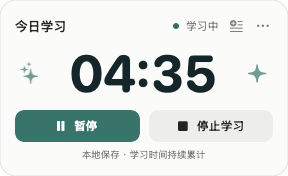
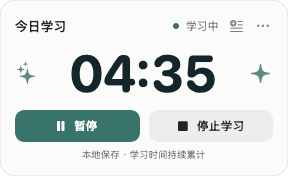
snapshot(P4-v2): import delivered stage retrospectively

Changed region(s): [[0.0625, 0.3409, 0.125, 0.483], [0.8438, 0.3693, 0.9375, 0.483]]

diff --git a/Sources/StudyTimerApp/AppDelegate.swift b/Sources/StudyTimerApp/AppDelegate.swift
@@ -30,7 +30,7 @@ final class AppDelegate: NSObject, NSApplicationDelegate {
                 fputs("--ui-check requires an isolated STUDY_TIMER_DATA_DIR\n", stderr)
                 exit(2)
             }
-            model.source = UICheckClock()
+            model.source = uiCheck ? UICheckClock() : PreviewTimeSource()
             model.acceptanceMode=acceptanceMode
         }
         model.load()
@@ -119,7 +119,7 @@ final class AppDelegate: NSObject, NSApplicationDelegate {
         if notePanel.isVisible { alignNote(remember:false) }
         if !uiCheck { preferences.set(NSStringFromPoint(panel.frame.origin),forKey:"timerOrigin") }
     }
-    func tick() { if acceptanceMode,let clock=model.source as? UICheckClock {clock.add(1)};model.tick();updateMenu();offerReminders() }
+    func tick() { model.tick();updateMenu();offerReminders() }
     func alignNote(adjust:Bool=true,remember:Bool=true) {
         if !adjust { notePanel.setFrameOrigin(NSPoint(x:panel.frame.minX,y:panel.frame.maxY+3));return }
         let placement=PanelLayout.above(timer:panel.frame,popupSize:NSSize(width:288,height:300),visible:screen(for:panel.frame).visibleFrame)
@@ -203,14 +203,14 @@ final class AppDelegate: NSObject, NSApplicationDelegate {
         for (title,value) in [("跟随系统外观","system"),("浅色外观","light"),("深色外观","dark")] { add(title,#selector(setAppearance(_:))).representedObject=value }
         if acceptanceMode {
             menu.addItem(.separator())
-            add("验收模式 · 测试数据独立保存",nil)
+            add("模拟验收 · 快进会增加测试时长",nil)
             for minutes in [1,30,60,180] {add("推进 \(minutes) 分钟",#selector(advanceAcceptance(_:))).representedObject=minutes}
-            add("推进到次日 00:20",#selector(advanceAcceptanceMidnight))
+            add("模拟持续学习至次日 00:20…",#selector(advanceAcceptanceMidnight))
         }
-        menu.addItem(.separator()); add("退出",#selector(quit),key:"q")
+        menu.addItem(.separator()); add("退出",#selector(quit))
         statusItem.menu=menu
         let main=NSMenu(); let appItem=NSMenuItem(); let appMenu=NSMenu()
-        let quitItem=NSMenuItem(title:"退出学习计时",action:#selector(quit),keyEquivalent:"q"); quitItem.target=self
+        let quitItem=NSMenuItem(title:"退出学习计时",action:#selector(quit),keyEquivalent:""); quitItem.target=self
         appMenu.addItem(quitItem); appItem.submenu=appMenu; main.addItem(appItem)
         let editItem=NSMenuItem(title:"编辑",action:nil,keyEquivalent:"")
         let edit=NSMenu(title:"编辑")
@@ -229,12 +229,21 @@ final class AppDelegate: NSObject, NSApplicationDelegate {
         menu.autoenablesItems=false
     }
     @objc func advanceAcceptance(_ item:NSMenuItem) {
-        guard acceptanceMode,let clock=model.source as? UICheckClock,let minutes=item.representedObject as? Int else{return}
+        guard acceptanceMode,let clock=model.source as? PreviewTimeSource,let minutes=item.representedObject as? Int else{return}
         clock.add(Double(minutes)*60);tick()
     }
     @objc func advanceAcceptanceMidnight() {
-        guard acceptanceMode,let clock=model.source as? UICheckClock else{return}
-        clock.now=StudyDate.nextMidnight(clock.now).addingTimeInterval(1200);tick()
+        guard acceptanceMode,let clock=model.source as? PreviewTimeSource else{return}
+        let target = StudyDate.nextMidnight(clock.now).addingTimeInterval(1200)
+        let alert = NSAlert()
+        alert.messageText = "模拟跨日：快进时间将计入测试记录"
+        let elapsed = StudyDate.duration(target.timeIntervalSince(clock.now))
+        alert.informativeText = "当前模拟时间：\(StudyDate.day(clock.now)) \(StudyDate.clock(clock.now))\n目标：\(StudyDate.day(target)) 00:20\n" + (model.phase == .running ? "正在计时，将新增约 \(elapsed) 的模拟学习时长，并按午夜拆分。" : "当前未运行，不增加学习时长。") + "\n仅影响独立验收数据，已有学习段保留。"
+        alert.addButton(withTitle: "取消")
+        alert.addButton(withTitle: "确认模拟快进")
+        NSApp.activate(ignoringOtherApps: true)
+        guard alert.runModal() == .alertSecondButtonReturn else { return }
+        clock.add(max(0, target.timeIntervalSince(clock.now))); tick()
     }
     @objc func showSaveStatus() {
         if model.errorText != nil { showError(); return }

diff --git a/Sources/StudyTimerApp/UICheck.swift b/Sources/StudyTimerApp/UICheck.swift
@@ -21,6 +21,13 @@ extension AppDelegate {
         do {
             try FileManager.default.createDirectory(at:output,withIntermediateDirectories:true)
             check("initial_stopped",model.ready && model.phase == .stopped)
+            var exits = menu.items.filter { $0.action == #selector(quit) }
+            for rootItem in NSApp.mainMenu?.items ?? [] {
+                for item in rootItem.submenu?.items ?? [] {
+                    if item.action == #selector(quit) { exits.append(item) }
+                }
+            }
+            check("all_exit_menus_have_no_shortcut",exits.count == 2 && exits.allSatisfy { $0.keyEquivalent.isEmpty })
             let visible=screen(for:panel.frame).visibleFrame
             setFrame(NSRect(x:panel.frame.minX,y:visible.maxY-panel.frame.height-8,width:288,height:176))
             let original=panel.frame
@@ -70,10 +77,31 @@ extension AppDelegate {
             let store=try SQLiteLedgerStore(directory:output.appendingPathComponent("snapshot-check"),now:clock.now)
             try store.save(snapshot);let loaded=try store.load()
             check("SQLite_full_record_roundtrip",loaded==snapshot)
-            let report:[String:Any]=["stage":"P4","kind":"AppKit integration with isolated clock and SQLite","checks":checks,
-                "allPassed":checks.allSatisfy{$0["passed"] as? Bool==true}]
-            try JSONSerialization.data(withJSONObject:report,options:[.prettyPrinted,.sortedKeys]).write(to:output.appendingPathComponent("ui-checks.json"))
-            print("P4 UI checks: \(checks.filter{$0["passed"] as? Bool==true}.count)/\(checks.count)")
+            // Return to the main run loop so scheduled animation callbacks can execute.
+            // A nested run loop inside this main-queue callback cannot service main-queue blocks.
+            let effect = StudyModel()
+            effect.startCelebration()
+            var levels: [Double] = []
+            for point in [0.65,1.05,1.45,1.85,2.25,2.65] {
+                DispatchQueue.main.asyncAfter(deadline: .now() + point) { levels.append(effect.celebrationOpacity) }
+            }
+            DispatchQueue.main.asyncAfter(deadline: .now() + 3) {
+                check("celebration_three_dim_bright_cycles", levels == [0.15,1,0.15,1,0.15,1])
+            }
+            DispatchQueue.main.asyncAfter(deadline: .now() + 29) {
+                check("celebration_held_before_30_seconds", effect.celebration && effect.celebrationOpacity == 1)
+            }
+            DispatchQueue.main.asyncAfter(deadline: .now() + 30.4) {
+                check("celebration_ends_at_30_seconds", !effect.celebration)
+                let report:[String:Any]=["stage":"P4 v2","kind":"AppKit integration with isolated clock and SQLite; effect observed over 30 real seconds","checks":checks,
+                    "allPassed":checks.allSatisfy{$0["passed"] as? Bool==true}]
+                do {
+                    try JSONSerialization.data(withJSONObject:report,options:[.prettyPrinted,.sortedKeys]).write(to:output.appendingPathComponent("ui-checks.json"))
+                    print("P4 UI checks: \(checks.filter{$0["passed"] as? Bool==true}.count)/\(checks.count)")
+                } catch { fputs("P4 UI report failed: \(error)\n", stderr) }
+                NSApp.terminate(nil)
+            }
+            return
         } catch {fputs("P4 UI check failed: \(error)\n",stderr)}
         NSApp.terminate(nil)
     }

diff --git a/Sources/StudyTimerApp/StudyModel.swift b/Sources/StudyTimerApp/StudyModel.swift
@@ -11,6 +11,25 @@ final class StudyModel: ObservableObject {
     @Published var cardIndex = 0
     @Published var cardTitle = ""
     @Published var celebration = false
+    @Published var celebrationOpacity = 1.0
+    private var celebrationGeneration = UUID()
+    func startCelebration() {
+        let generation = UUID()
+        celebrationGeneration = generation
+        celebration = true
+        celebrationOpacity = 1
+        // Three soft dim/bright cycles, followed by a steady hold until 30 seconds.
+        for step in 1...6 {
+            DispatchQueue.main.asyncAfter(deadline: .now() + Double(step) * 0.4) { [weak self] in
+                guard let self = self, self.celebrationGeneration == generation else { return }
+                withAnimation(.easeInOut(duration: 0.2)) { self.celebrationOpacity = step.isMultiple(of: 2) ? 1 : 0.15 }
+            }
+        }
+        DispatchQueue.main.asyncAfter(deadline: .now() + 30) { [weak self] in
+            guard let self = self, self.celebrationGeneration == generation else { return }
+            self.celebration = false
+        }
+    }
     @Published var isEditingHistory = false
     private var dirty: Set<UUID> = []
     private var draftWork: DispatchWorkItem?
@@ -26,7 +45,7 @@ final class StudyModel: ObservableObject {
     }
     var displayTime: String { StudyDate.timer(ledger.total(on: ledger.day)) }
     var footer: String {
-        if acceptanceMode && errorText == nil { return "验收模式 · 独立数据，可快进时间" }
+        if acceptanceMode && errorText == nil { return "模拟时间 " + StudyDate.clock(source.now) + " · 快进计入测试时长" }
         if errorText != nil { return "保存/读取失败 · 点右上角菜单查看" }
         return phase == .running ? "本地保存 · 学习时间持续累计" : "本地保存 · " + (phase == .paused ? "暂停期间不计时" : "点击开始学习")
     }
@@ -36,7 +55,7 @@ final class StudyModel: ObservableObject {
             let directory = try SQLiteLedgerStore.defaultDirectory()
             dataDirectory = directory
             let store = try SQLiteLedgerStore(directory: directory, now: source.now)
-            if acceptanceMode,let clock=source as? UICheckClock {clock.now=max(clock.now,try store.load().checkpointAt)}
+            if acceptanceMode, let clock = source as? PreviewTimeSource { clock.restore(at: try store.load().checkpointAt) }
             controller = try StudyController(source: source, store: store)
             ready = true; errorText = nil; refresh()
         } catch { ready = false; errorText = error.localizedDescription }
@@ -87,8 +106,7 @@ final class StudyModel: ObservableObject {
             try controller.markPresented(Set(pending.map(\.id)));refresh()
             cardEntryIDs=Array(pending.compactMap(\.entryID).reduce(into:[UUID]()) { result,id in if !result.contains(id){result.append(id)} })
             cardIndex=0;cardTitle=pending.count==1 ? "又完成一小时" : "已完成 \(pending.count) 个整小时"
-            withAnimation(.easeInOut(duration:0.35)){celebration=true}
-            DispatchQueue.main.asyncAfter(deadline:.now()+2) { [weak self] in withAnimation(.easeOut(duration:0.4)){self?.celebration=false} }
+            startCelebration()
             return currentEntry != nil
         } catch { errorText=error.localizedDescription;return false }
     }

diff --git a/Tests/StudyRecordChecks/main.swift b/Tests/StudyRecordChecks/main.swift
@@ -298,6 +298,42 @@ test("quit_unselected_short_tail_saved_separately") {
  let(t,_,c)=try fixture();try c.perform(.start);t.add(300);try c.perform(.stop);try c.perform(.quit)
  try expect(c.ledger.entries.count==1 && c.ledger.entries[0].seconds==300 && !c.ledger.entries[0].pendingTail)
 }
+test("real_clock_session_uses_actual_start_time") {
+ let before=Date();let clock=ContinuousTimeSource();let store=MemoryStore(clock.now)
+ let controller=try StudyController(source:clock,store:store);try controller.perform(.start)
+ let start=controller.ledger.sessions[0].startedAt
+ try expect(start >= before && start <= Date() && controller.ledger.sessions[0].day==StudyDate.day(start))
+}
+test("preview_starts_at_current_time_not_nine") {
+ let base=FakeClock("2026-09-18T20:37:42+08:00");let clock=PreviewTimeSource(base:base)
+ try expect(clock.now==base.now && StudyDate.clock(clock.now)=="20:37")
+ base.add(7200);try expect(clock.now==base.now)
+ clock.add(1800);try expect(clock.now.timeIntervalSince(base.now)==1800)
+}
+test("preview_restore_does_not_rewind_or_count_closed_time") {
+ let base=FakeClock("2026-09-18T20:37:42+08:00");let clock=PreviewTimeSource(base:base)
+ let stored=base.now.addingTimeInterval(86400);clock.restore(at:stored)
+ try expect(clock.now==stored);base.add(60);try expect(clock.now==stored.addingTimeInterval(60))
+ clock.restore(at:base.now.addingTimeInterval(-3600));try expect(clock.now==base.now)
+}
+test("midnight_preserves_earlier_total_notes_and_start_time") {
+ let(t,s,c)=try fixture("2026-09-18T18:17:00+08:00")
+ try c.perform(.start);t.add(1800);try c.perform(.stop)
+ let id=c.ledger.entries[0].id;try c.editNotes([id:"此前的真实学习记录"])
+ let earlier=c.ledger.sessions[0]
+ t.now=ISO8601DateFormatter().date(from:"2026-09-18T23:40:00+08:00")!
+ try c.perform(.start);t.add(2400);c.tick()
+ try expect(c.ledger.sessions[0]==earlier && c.ledger.entries.first{$0.id==id}?.note=="此前的真实学习记录")
+ try expect(near(c.ledger.total(on:"2026-09-18"),3000) && near(c.ledger.total(on:"2026-09-19"),1200))
+ let restored=try StudyController(source:t,store:s)
+ try expect(near(restored.ledger.total(on:"2026-09-18"),3000) && restored.ledger.sessions[0]==earlier)
+}
+test("midnight_paused_preserves_all_prior_totals") {
+ let(t,_,c)=try fixture("2026-09-18T20:17:00+08:00");try c.perform(.start)
+ t.add(600);try c.perform(.pause);let total=c.ledger.total(on:"2026-09-18")
+ t.now=ISO8601DateFormatter().date(from:"2026-09-19T00:20:00+08:00")!;c.tick()
+ try expect(c.ledger.total(on:"2026-09-18")==total && c.ledger.total(on:"2026-09-19")==0 && c.ledger.phase == .paused)
+}
 let passed=checks.filter { $0["passed"] as? Bool == true }.count
 let report:[String:Any] = ["stage":"P4", "kind":"isolated clocks and SQLite", "checks":checks, "allPassed":passed==checks.count,
  "notCovered":["Actual system sleep", "Actual overnight midnight", "UI window behavior"]]

diff --git a/Sources/StudyCore/TimeSource.swift b/Sources/StudyCore/TimeSource.swift
@@ -42,3 +42,14 @@ public enum StudyDate {
         return minutes % 60 == 0 ? "\(minutes / 60)小时" : "\(minutes / 60)小时\(minutes % 60)分钟"
     }
 }
+
+/// User-facing isolated preview starts at the current real time, never a fixed fixture date.
+/// The continuous source keeps elapsed time independent of UI refresh frequency and sleep.
+public final class PreviewTimeSource: TimeSource {
+    private let base: TimeSource
+    private var offset: TimeInterval = 0
+    public init(base: TimeSource = ContinuousTimeSource()) { self.base = base }
+    public var now: Date { base.now.addingTimeInterval(offset) }
+    public func add(_ seconds: TimeInterval) { offset += max(0, seconds) }
+    public func restore(at checkpoint: Date) { offset = max(0, checkpoint.timeIntervalSince(base.now)) }
+}

diff --git a/Sources/StudyTimerApp/TimerView.swift b/Sources/StudyTimerApp/TimerView.swift
@@ -53,7 +53,7 @@ struct TimerView: View {
                 if model.celebration {
                     HStack { Image(systemName:"sparkles"); Spacer(); Image(systemName:"sparkle") }
                         .font(.system(size:20)).foregroundColor(PrototypeTheme.accent.opacity(0.8))
-                        .allowsHitTesting(false).transition(.opacity.combined(with:.scale(scale:0.8)))
+                        .opacity(model.celebrationOpacity).allowsHitTesting(false)
                 }
             }
             HStack(spacing: 9) {

diff --git a/docs/p4-testing.md b/docs/p4-testing.md
@@ -1,4 +1,4 @@
-# P4 v1：整小时、备注与尾段验收
+# P4 v2：整小时、备注与尾段验收
 
 当前阶段：P4 开发交付，等待用户验收；P5 未开始。
 
@@ -10,18 +10,18 @@
 ## 打开与两种模式
 先退出旧版本及正在运行的 P4，避免同时显示多个悬浮窗。
 
-**日常使用：**双击 `StudyTimer.app`，采用真实时间和正式 P4 数据库，不自动开始计时。右上角记录图标查看历史，“…”和菜单栏控制计时。
+**日常使用：**双击 `StudyTimer.app`，采用真实时间和正式 P4 数据库，不自动开始计时。退出请用鼠标点击“…”或菜单栏中的“退出”，没有退出快捷键。右上角记录图标查看历史，“…”和菜单栏控制计时。
 
-**快速验收：**双击同目录的 `开始独立验收.command`。它会通过终端启动同一个应用，使用全新的测试目录；主窗明确显示“验收模式 · 独立数据，可快进时间”。菜单额外提供推进 1/30/60/180 分钟和推进到次日 00:20。该模式不改系统时间，也不写正式库。
+**快速验收：**双击同目录的 `开始独立验收.command`。它会通过终端启动同一个应用，使用全新的测试目录；初始模拟时间为此刻真实时间，主窗显示“模拟时间 HH:MM · 快进计入测试时长”。菜单额外提供推进 1/30/60/180 分钟和模拟持续学习至次日 00:20；跨日操作先显示新增时长，确认后才推进。该模式不改系统时间，也不写正式库。
 
-退出后若要验证持久保存，双击 `继续上次验收.command`。仍使用上次测试目录和保存点日期，不会回拨测试时间。再次运行“开始独立验收”会建立新目录；旧测试目录仍保留，不自动删除。
+退出后若要验证持久保存，双击 `继续上次验收.command`。仍使用上次测试目录及当前时间/保存点中较晚的时刻，不会回拨测试时间。再次运行“开始独立验收”会建立新目录；旧测试目录仍保留，不自动删除。
 
 源码目录也可用 `bash scripts/open-p4-acceptance.sh` 启动一次新验收，终端会打印独立数据路径。上述 .command 入口位于交付目录/应用包中。
 
 ## 建议测试顺序
 | 编号 | 操作 | 预期 |
 |---|---|---|
-| P4-01 | 独立验收中开始，菜单推进 60 分钟 | 无声星光，备注卡片在计时窗上方；计时继续 |
+| P4-01 | 独立验收中开始，菜单推进 60 分钟 | 星光开始时闪烁 3 次，总计停留 30 秒；备注卡片在计时窗上方；计时继续 |
 | P4-02 | 将主窗拖到屏幕顶端，再触发卡片，收起 | 主窗临时下移，卡片仍在上方；收起恢复原位 |
 | P4-03 | 卡片打开期间主动拖动主窗，再收起 | 保留新位置；只点击不拖动则仍可恢复原位 |
 | P4-04 | 卡片填写中文、选择候选词、换行，等待约半秒 | 文本可编辑并自动保存；计时不中断，不抢其他应用的输入焦点 |
@@ -47,6 +47,15 @@
 卡片在输入时，新提醒等待；历史编辑窗口打开时也等待。正常退出先保存草稿，再处理所有尚未选择的尾段。异常关闭只恢复已保存内容，尚未完成的自动保存可能丢失，已保存记录不会被关闭间隔补算。
 
 ## 验证边界与反馈
-46 项核心/SQLite 检查、24 项 AppKit 集成检查及实际原生界面编辑验证见 p4-self-test.md。新一轮真实锁屏/睡眠、中文输入法完整候选交互、不同桌面与全屏体验建议在本版再回归一次。自然跨午夜仍未实测；快进跨日是隔离模拟。
+v2 的针对性回归与验证边界见 p4-v2-self-test.md。新一轮真实锁屏/睡眠、中文输入法完整候选交互、不同桌面与全屏体验建议在本版再回归一次。自然跨午夜仍未实测；快进跨日是隔离模拟。
 
 请反馈测试编号、操作和实际表现。P4 通过并明确允许继续后，才进入 P5。
+
+## 本次反馈的重点复测
+1. 日常计时直接双击 v2 `StudyTimer.app`。点击开始，记录页应显示本次实际开始钟点，无固定 09:00。
+2. 独立验收从当前真实时刻出发；点击推进会增加模拟学习时长。运行中模拟跨日会把直到目标的时间全部算入，这是持续学习模拟。若不希望增加时长，先暂停再跨日。
+3. 先停止保存一段，再开始第二段并模拟跨日，前一段的开始时间、时长、备注应保持不变，日总计只增加第二段午夜前的部分。
+4. 特效出现后观察最初 3 次柔和明暗变化，随后保持，30 秒消失；卡片不会因此关闭。
+5. 两处退出菜单均无快捷键标记，鼠标点击退出后悬浮窗和菜单栏图标消失。悬浮窗不抢焦点，其他应用在前台时键盘仍归该应用，不使用 Command-Q 退出悬浮窗。
+
+v1 的固定 09:00 记录属于旧独立验收库。v2 保留旧文件，不将这些模拟数据转换成真实学习记录，也不据模拟数据重写正式库。

diff --git a/docs/p4-v2-self-test.md b/docs/p4-v2-self-test.md
@@ -1,0 +1,31 @@
+# P4 v2 修复与自测
+
+2026-09-18。范围仅为 P4 用户反馈修复，等待用户复测；P5 未开始。
+
+## 修复与排查结论
+1. 星光共停留 30 秒，出现后最初 2.4 秒内柔和闪烁 3 次，之后常亮；卡片仍由用户保存或收起，计时不中断。
+2. 两处退出菜单均移除快捷键。请点击菜单退出；悬浮窗不抢键盘焦点，其他应用在前台时 Command-Q 仍属于其他应用。
+3. 只读核对确认固定 09:00 和跨日大额累计来自独立验收模式；未发现模拟库覆盖正式库。公开版本不包含个人真实记录。
+4. 交互验收现使用独立 PreviewTimeSource，从当前真实时间开始；连续经过时间独立于界面刷新，快进增加显式偏移。固定 9 点仅保留在自动化用例中。窗口明确显示模拟时刻和快进会计入测试时长，跨日操作显示目标与新增时长并要求点击确认。
+
+旧模拟记录不会被猜测或转换为真实学习时间，v2 日常使用沿用已有正式 P4 库。新建独立验收使用新的测试目录。
+
+## 核心与存储
+`bash scripts/test-p4.sh`：51/51 通过。保留原 46 项，增加：真实开始时刻；验收时钟非固定 9 点且覆盖长间隔；恢复不回拨；已有学习记录与备注在跨日、保存和恢复后不变；暂停跨日不增加累计。
+
+重点用例：先保存 18:17 开始的 30 分钟，再从 23:40 连续学到次日 00:20。昨日合计 50 分钟，今日 20 分钟；第一段的开始时间、时长和备注完全保留。
+
+## 窗口与特效
+`bash scripts/test-ui-p4.sh`：在原 24 项上增加两处退出菜单无快捷键、3 次明暗周期、29 秒仍显示、30 秒结束，共 28 项，最终 28/28 通过。特效检查通过真实主运行循环异步观测，计时核心仍使用隔离模拟时钟。
+
+首次特效检查的嵌套等待阻塞了主队列回调，造成两项失败；已修正检查方式为异步采样，避免将测试阻塞误判为应用动画故障。最终原始结果见 `evidence/ui-checks.json`。
+
+## 原生实际操作
+以真实时钟、隔离数据库启动 Release 应用（不带验收参数），实际点击开始并打开历史，显示 20:48，与本次系统时间一致。通过应用菜单鼠标点击退出，进程正常结束，SQLite 中开始时刻落在本次启动/退出区间，状态 stopped、结束原因 quit。见 `evidence/native-real-time.json`。
+
+本次没有使用 Command-Q 测试退出，也没有关闭其他应用。旧库只读排查见 `evidence/reported-time-diagnosis.json`。
+
+## 验证边界
+自然跨午夜、真实睡眠及锁屏未在此修复轮重做；跨日使用隔离时钟，不等同于自然午夜实测。动画的柔和程度及完整日常体验仍等待用户复测。
+
+新版独立验收也完成实际操作：初始显示当前 20:50/20:51，跨日确认显示将新增约 3 小时 28 分钟；确认后新日显示 00:20，SQLite 保留实际模拟起点而非 09:00，随后鼠标点击悬浮菜单退出成功。见 `evidence/native-preview.json`。这是模拟验证，不是自然跨午夜。

diff --git a/README.md b/README.md
@@ -1,17 +1,17 @@
 # 桌面悬浮计时应用
 
-**P4 v1 已交付，等待用户验收；P5 未开始。** 用户已授权进入 P4，确认真实睡眠和锁屏测试通过；自然跨午夜仍未实测。
+**P4 v2 已交付，等待用户验收；P5 未开始。** 用户已授权进入 P4，确认真实睡眠和锁屏测试通过；自然跨午夜仍未实测。
 
 ## 打开
-双击 `outputs/P4-v1/StudyTimer.app`。先退出旧版本，以免混淆。新版从空白记录开始，旧 P3 测试数据不导入。
+双击 `outputs/P4-v2/StudyTimer.app`。先退出旧版本，以免混淆。v2 延续 P4 正式数据，旧验收数据保持原样。
 
 已支持真实计时、日累计、北京时间归日、SQLite 保存，以及累计整小时无声鼓励、上方备注卡片、提醒合并与排队、历史备注编辑、尾段单独或合并。退出时自动处理尚未选择的尾段，并保留文字。
 
 - [P4 测试步骤](docs/p4-testing.md)
-- [P4 自测记录](docs/p4-self-test.md)
+- [P4 v2 修复与自测](docs/p4-v2-self-test.md)
 - [阶段验收状态](docs/acceptance.md)
 
-交付目录提供 `开始独立验收.command` 和 `继续上次验收.command`，可快进时间测试整小时/跨日，不改系统时间、不写正式库。日常使用直接打开应用即可。
+交付目录提供 `开始独立验收.command` 和 `继续上次验收.command`，从当前时间开始，可模拟快进整小时/跨日；快进会增加测试时长，不改系统时间、不写正式库。日常使用直接打开应用即可。
 
 ## 数据与构建
 正式数据位于 `~/Library/Application Support/StudyTimerP4`。备注约 0.4 秒自动保存，关键操作立即保存，运行时每 5 秒保存检查点。环境变量 STUDY_TIMER_DATA_DIR 支持绝对路径隔离测试。

diff --git a/docs/requirements.md b/docs/requirements.md
@@ -22,7 +22,7 @@
 - 历史中的钟点采用“09:00–10:00”；学习时长采用“1小时35分钟”，与钟点区分。
 - 界面不显示“北京时间”标签，但实际计时归档规则保持不变。
 - 整小时备注卡片从整个计时窗上方弹出。顶部不足空间时临时下移计时窗，关闭卡片后恢复原位；如果用户主动拖动，则保留其新位置。
-- 原生简洁风格、低饱和青绿色、系统深浅色适配；鼓励动效无声音。
+- 原生简洁风格、低饱和青绿色、系统深浅色适配；鼓励动效无声音，出现时柔和闪烁 3 次，特效共停留 30 秒；备注卡片继续由用户保存或收起。
 
 ## 4. 学习与计时
 - **R01 启动/开始：** 启动应用不自动计时；开始学习创建新学习段。
@@ -45,7 +45,7 @@
 
 ## 6. 窗口与保存
 - **R14 悬浮：** 单个主窗可拖动、记住位置，在普通应用、全屏应用和不同桌面上可见。控制按钮不主动抢键盘焦点；备注输入按点击获得焦点。
-- **R15 菜单栏：** 显示/隐藏计时窗、打开记录、开始/暂停/继续/停止及退出。隐藏不暂停，退出才停止。
+- **R15 菜单栏：** 显示/隐藏计时窗、打开记录、开始/暂停/继续/停止及退出。隐藏不暂停，退出才停止。退出菜单不提供键盘快捷键，使用鼠标点击退出。
 - **R16 保存：** 关键操作立即保存，清醒运行时每 5 秒保存检查点。睡眠期间无法持续落盘，异常关闭仅恢复最后成功保存值。
 - **R17 数据安全：** 本地存储；不可读、损坏、未知版本不静默覆盖为新空库。测试数据与真实记录隔离。
 
